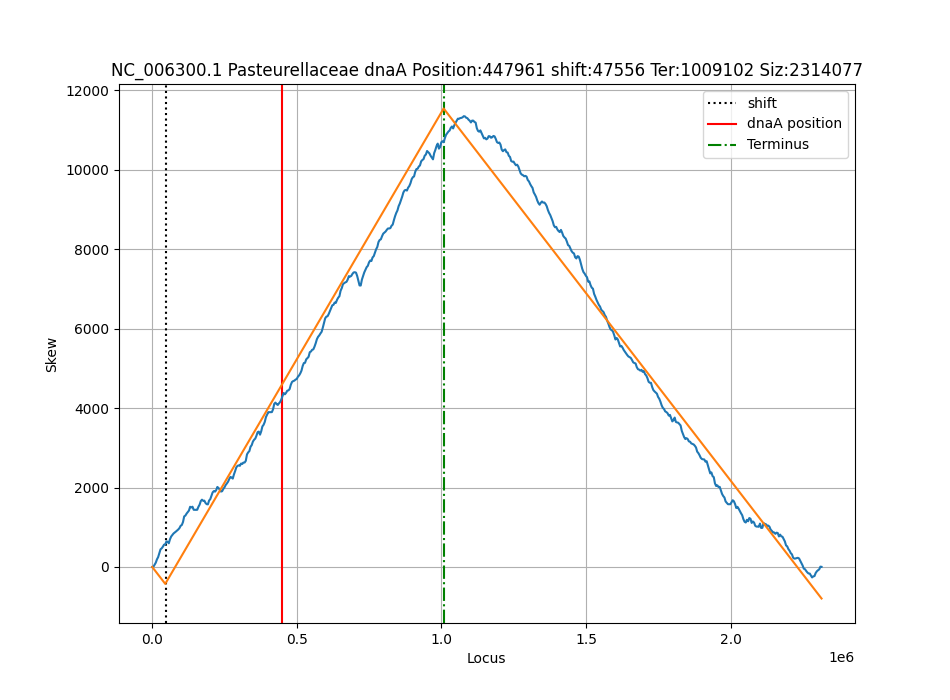
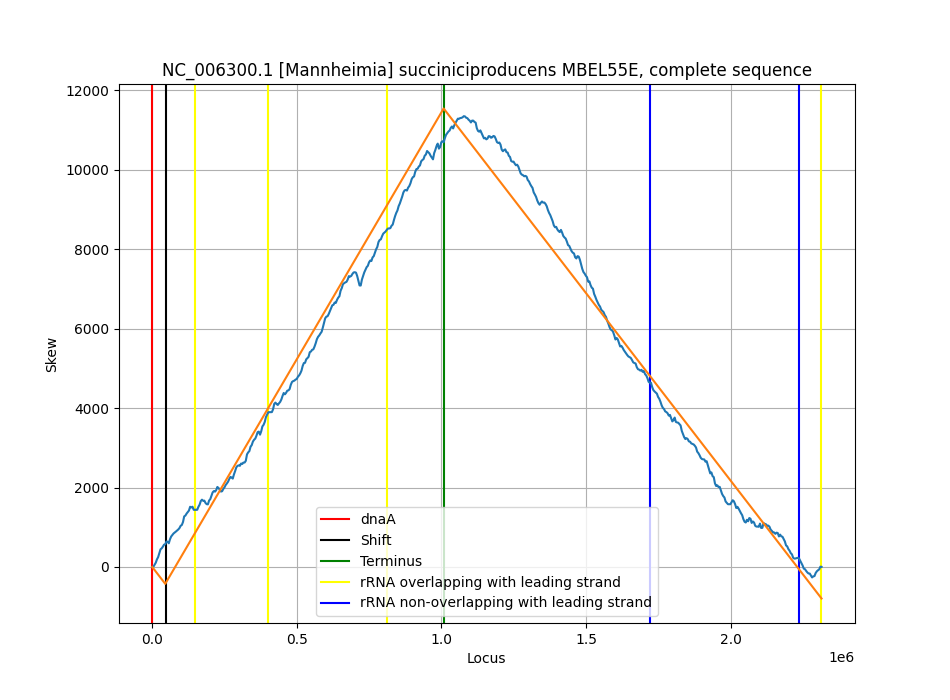
Updated plots.py using dummy outputfile

Changed region(s): [[0.1221, 0.09, 0.9158, 0.87], [0.3358, 0.72, 0.7021, 0.87]]

diff --git a/plots.py b/plots.py
@@ -1,3 +1,8 @@
+#TODO instructions for using this script
+#TODO help for script
+#TODO saving images to hard drive
+#TODO check the taxa for chromosomes where the rrna is not overlapping with leading strand
+
 # Import libraries
 import glob
 import pandas as pd
@@ -8,24 +13,106 @@ from rrna_leading_lagging import rrna_lead_lag as rRNA
 from combined_scripts import get_rRNA_intervals as rRNA_interval
 from random import shuffle
 import matplotlib.pyplot as plt
-
+import matplotlib.lines as mlines
 plt.rcParams['figure.figsize'] = [9.5, 7]
 
-csv_path = "C:/Ashwini/Applied_bioinformatics/FilteredDataFile.csv"
-df_for_taxa = pd.read_csv(csv_path)
-file_path = csv_path.rstrip("FilteredDataFile.csv")
-#print(file_path)
-op_file_path = file_path + "dataFile_with_rrna_lead_lag.csv"
-#print(op_file_path)
-op_df = pd.read_csv(op_file_path)
-#print(op_df.loc[:,:])
-gcfit_path = file_path + "gcfits"
+# Create test csv output files for chromosomes and rRNAs
+rRNAs= {
+    'rRNA':["rRNA1","rRNA2","rRNA3","rRNA4","rRNA5", "rRNA6"],
+    'accession_number' :["NC_006300.1","NC_006300.1","NC_006300.1","NC_006300.1","NC_006300.1","NC_006300.1"],
+    'locus_tag':["string","string","string","string","string", "string"],
+    'start':["149532", "401649", "813443", "1721185", "2233936", "2312119"],
+    'stop':["151076", "403192", "814986", "1722728", "2235480", "2313662"],
+    'strand':["1", "1", "1", "-1", "-1", "1"],
+    'co-oriented':[True, True, True, False, False, True],
+    'dist_to_ori':[1, 2, 3, 4, 5, 6],
+    'betn_dnaA_ori':[False, False, False, False, False, False]
+          }
+df_rRNA = pd.DataFrame(rRNAs)
+df_rRNA.to_csv("C:/Ashwini/Applied_bioinformatics/rRNA.csv")
+print(df_rRNA)
 
-# Get CSV files list from a folder
-#path = "C:/Ashwini/Applied_bioinformatics/gcfits"
-csv_files = glob.glob(gcfit_path + "/*.csv")
-print(csv_files[1])
+chromosomes = {
+    'accession_number':["NC_006300.1"],
+    'name':["NC_006300.1 [Mannheimia] succiniciproducens MBEL55E, complete sequence"],
+    'shift':["47556"],
+    'div':["0.416"],
+    'siz':["2314077"],
+    'dnaA':["1"],
+    'taxid':["221988"],
+    'realm1':["Bacteria"],
+    'realm2':["Proteobacteria"],
+    'realm3':["Gammaproteobacteria"],
+    'realm4':["Pasteurellales"],
+    'realm5':["Pasteurellaceae"],
+    'Ori':["47557"],
+    'Ter':["1009102"],
+    'lead1':["[47557, 1009102)"],
+    'lead2':["[1, 47557)"],
+    'lagg1':["[1009102, 2314077]"],
+    'lagg2':[""],
+    'dist_dnaa_ori':["1"],
+    'fraction':["5/6"],
+    'median':["100"]
+}
+df_chromo = pd.DataFrame(chromosomes)
+print(df_chromo)
+
+#Declaring lists used
+accession=[]
+rrna = []
+orient =[]
+start_regular = []
+stop_compliment = []
+unique_acc_rrna = []
 gcfits_accession = []
+new_csv_files = []
+temp_rrna =[]
+temp_num = []
+temp_non_rrna =[]
+temp_non_num = []
+
+for file in range(len(df_rRNA)):
+    accession.append(df_rRNA.loc[file,"accession_number"])
+    new_df = pd.DataFrame(accession, columns=["accession_number"])
+
+print(new_df)
+
+#Read data from rRNA file and check whether rRNA is co-oriented or not
+for file in range(len(df_rRNA)):
+    rrna.append(df_rRNA.loc[file,"rRNA"])    
+    orient.append(df_rRNA.loc[file,"co-oriented"])   
+    print(file)
+    if df_rRNA.loc[file,"co-oriented"] == False:     
+        if df_rRNA.loc[file, "strand"] == "1":
+            start_regular.append(df_rRNA.loc[file, "start"])
+        else:
+            start_regular.append(df_rRNA.loc[file, "stop"])
+    else:        
+        if df_rRNA.loc[file, "strand"] == "1":
+            start_regular.append(df_rRNA.loc[file, "start"])
+        else:     
+            start_regular.append(df_rRNA.loc[file, "stop"])      
+new_df["rRNA"] = rrna 
+new_df["co-oriented"] = orient
+new_df["rRNAPos"] = start_regular
+
+print(start_regular)
+#print(stop_compliment)
+print(new_df)
+
+#Fetching unique accession numbers from new_df dataframe 
+unique_acc_rrna = new_df["accession_number"].unique()
+
+#Creating path from csv_path
+csv_path = "C:/Ashwini/Applied_bioinformatics/FilteredDataFile.csv"
+file_path = csv_path.rstrip("FilteredDataFile.csv")
+gcfit_path = file_path + "gcfits\\"
+print(gcfit_path)
+
+# Get CSV files list from a gcfit folder
+csv_files = glob.glob(gcfit_path + "*.csv")
+print(csv_files[1])
 
 # Get only accession numbers from the file names
 for i in range(len(csv_files)):
@@ -34,154 +121,80 @@ for i in range(len(csv_files)):
     st = st.lstrip("\ ")
     st = st.rstrip("_fit.csv")
     gcfits_accession.append(st)
-
 print(gcfits_accession[1])
 
-
-chromoname = []
-
-for row in range(len(op_df)):
-    chromoname.append(op_df.loc[row,"name"])
-    
-print(chromoname)
-
-new_csv_files = []
+#Matching accession numbers of rrna output files with gcfit csv files
 for fil in csv_files:
     st = fil.replace(gcfit_path, "")
     st = st.lstrip("\ ")
     st = st.rstrip("_fit.csv")
-    if st in chromoname:
+    if st in unique_acc_rrna:
         new_csv_files.append(st)
-
 print(new_csv_files)
 
-new_gcfit = []
-"""for num in new_csv_files:
-    full_path = "C:/Ashwini/Applied_bioinformatics/gcfits\\" + num + "_fit.csv"
-    new_gcfit.append(full_path)
-
-fitted=[]
-for file_name in new_gcfit:
-    df = pd.read_csv(file_name)
-    fitted.append(df)
-
-print(fitted[0])"""
-#fitted = li[0]
-
-#print(op_df.iloc[:,2:9])
-str_num = []
-for i in range(100):
-    temp=str(i)
-    str_num.append(i)
-str_num = str(str_num)
-#print(str_num)
-
-
+#plotting graph for matched accession numbers
 for acc_num in new_csv_files:
-    full_path = "C:/Ashwini/Applied_bioinformatics/gcfits\\" + acc_num + "_fit.csv"
+    full_path = gcfit_path + acc_num + "_fit.csv"
     df = pd.read_csv(full_path)
-    #print(file)
-    #fitted.append(df)
-    us=op_df[op_df.name==acc_num]
-    taxa=df_for_taxa[df_for_taxa.name==acc_num]
+    us=new_df[new_df.accession_number==acc_num]
+    chromo = df_chromo[df_chromo.accession_number==acc_num]
+    #Creating new dataframe for the rrnas for the accession number
+    df_rrna_plot = new_df.loc[new_df["accession_number"] == acc_num,["rRNA", "co-oriented", "rRNAPos"]]
 
-    col=us.columns
-    col_names=col.values.tolist()
-    #print(col_names)
-    temp1 = [x for x in col_names if x in str_num]
-    #print(len(temp1))
-    n=temp1[-1]
-    n=int(n)
-    #print(temp2)
-
-    rrna_temp = us.iloc[:,2:n+3]
-    rrna_inter = rrna_temp.values.tolist()
-    regular_rrna =[]
-    comp_rrna=[]
-    
-    for rrna in rrna_inter:
-        rrna_element = rrna
-        print(rrna_element)
-        for el in rrna_element: 
-            y=str(el)
-            if y.find("+") != -1:
-                first_part = re.findall(r'(?<=\[)[0-9]+', str(el))
-                regular_rrna.append(first_part)
-                #print("regular")
-                #print(regular_rrna)
-            else:
-                last_part = re.findall(r'(?<=\:)[0-9]+', str(el))
-                comp_rrna.append(last_part)
-                #print("compliment")
-                #print(comp_rrna)
-    print(regular_rrna)
-    print(comp_rrna)
-
-    leshift=us["shift"].item()
+    # for marking rrna
+    for row in range(len(df_rrna_plot)):
+        if df_rrna_plot.loc[row, "co-oriented"] == True:
+            mark_rrna = df_rrna_plot.loc[row,"rRNAPos"]
+            #temp_rrna.append(mark_rrna)
+            #num_rrna = df_rrna_plot.loc[row,"rRNA"]
+            #temp_num.append(num_rrna)
+            plt.axvline(int(mark_rrna), ls='-', color='yellow')
+        else:
+            non_overlap_rrna = df_rrna_plot.loc[row,"rRNAPos"]
+            #temp_non_rrna.append(non_overlap_rrna)
+            #non_overlap_num = df_rrna_plot.loc[row,"rRNA"]
+            #temp_non_num.append(non_overlap_num)
+            plt.axvline(int(non_overlap_rrna), ls='-', color='blue')
+    print(temp_rrna)
+    # for marking shift
+    leshift=chromo["shift"].item()
     print(leshift)
-    if leshift > 0:
-        l_shift=plt.axvline(leshift, ls=':', color='black')
+    if int(leshift) > 0:
+        plt.axvline(int(leshift), ls='-', color='black')
     else:
-        l_shift=plt.axvline(df.pos.max() + leshift, ls=':', color='black')
-    dnaApos=us["dnaApos"].item()
+        plt.axvline(df.pos.max() + int(leshift), ls='-', color='black')
+    # for marking dnaA pos
+    dnaApos=chromo["dnaA"].item()
     print(dnaApos)
-    if dnaApos > 0:
-        d_dnaA=plt.axvline(dnaApos, ls='-', color='red')
+    if int(dnaApos) > 0:
+        plt.axvline(int(dnaApos), ls='-', color='red')
     else:
-        d_dnaA=plt.axvline(df.pos.max() + dnaApos, ls='-', color='red')
-    Terminus=us["Ter"].item()
+        plt.axvline(df.pos.max() + int(dnaApos), ls='-', color='red')
+    # for marking terminus
+    Terminus=chromo["Ter"].item()
     print(Terminus)
-    Terminus=plt.axvline(Terminus, ls='-.', color='green')
+    plt.axvline(int(Terminus), ls='-', color='green')
+    #Placing legend
+    dnaA = mlines.Line2D([], [], color='red', label='dnaA')
+    shift = mlines.Line2D([], [], color='black', label='Shift')
+    ter = mlines.Line2D([], [], color='green', label='Terminus')
+    pos_rrna = mlines.Line2D([], [], color='yellow', label='rRNA overlapping with leading strand')
+    pos_non_rrna = mlines.Line2D([], [], color='blue', label='rRNA non-overlapping with leading strand')
+    plt.legend(handles=[dnaA, shift, ter, pos_rrna, pos_non_rrna])
+
+    # labelling x and y axis
     plt.xlabel("Locus")
     plt.ylabel("Skew")
+    #plotting the graph
     plt.plot(df.pos, df.gc2skew)
     plt.plot(df.pos, df.predgc2skew)
     
-    plt.legend([l_shift, d_dnaA, Terminus],
-            ["shift", "dnaA position", "Terminus"])
-
-    plt.title(acc_num + " " + str(taxa["realm5"].item()) + " dnaA Position:" + str(us["dnaApos"].item()) + 
-          " shift:" + str(round(us["shift"].item(),3)) + " Ter:" + str(us["Ter"].item()) + " Siz:" + str(us["siz"].item()))
+    #fixing title
+    plt.title(str(chromo["name"].item()))
     plt.grid()
     plt.savefig("figures\\"+ str(acc_num) + ".png")
+    plt.savefig("D:\\figures\\"+ str(acc_num) + ".png")
     plt.clf()
-    #plt.savefig("NC_006300.1.pdf")
-    #plt.show()"""
-
-#fitted = pd.read_csv(r"C:\Ashwini\Applied_bioinformatics\gcfits\NC_006300.1_fit.csv")
-#rRNA_dict = rRNA_interval(csv_path)
-#print(m.loc[m["name"] == "NC_013791.2"])
-#chromoname="NC_004088.1" 
-#chromoname1="NC_006300.1"
-
-
-#df_rrna_ori_ter = pd.read_csv("C:/Ashwini/Applied_bioinformatics/dataFile_double_check_merged.csv")
-#rrna = df_rrna_ori_ter.loc[df_rrna_ori_ter["name"] == "NC_006300.1",["0", "1","2","3","4","5","6","7"]]
-#rrna = re.findall(r'(?<=\[)[0-9]+', str(df_rrna_ori_ter.loc[df_rrna_ori_ter["name" == "NC_002506.1"]]))
-#rrna_comp = re.findall(r'(?<=\:)[0-9]+', str(df_rrna_ori_ter.loc[df_rrna_ori_ter["name" == "NC_002506.1"]]))
-
-#interval = []
-#interval=rrna
-#print(interval)
-
-#print(rrna_comp)
-
-"""NC_006300.1
-#rrna_NC_006300 = [149532, 401649, 813443, 1722728, 2235480, 2312119]
-rrna_NC_006300_1 =plt.axvline(op_df.loc[op_df["name"] == "NC_006300.1",["0"]], ls='--', color='blue')
-rrna_NC_006300_2 =plt.axvline(op_df.loc[op_df["name"] == "NC_006300.1",["1"]], ls='--', color='blue')
-rrna_NC_006300_3 =plt.axvline(op_df.loc[op_df["name"] == "NC_006300.1",["2"]], ls='--', color='blue')
-rrna_NC_006300_4 =plt.axvline(op_df.loc[op_df["name"] == "NC_006300.1",["3"]], ls='--', color='blue')
-rrna_NC_006300_5 =plt.axvline(op_df.loc[op_df["name"] == "NC_006300.1",["4"]], ls='--', color='blue')
-rrna_NC_006300_6 =plt.axvline(op_df.loc[op_df["name"] == "NC_006300.1",["5"]], ls='--', color='blue')
-
-NC_002162.1
-rrna_NC_002162 = [145339, 343925]
-rrna_NC_002162_1 =plt.axvline(rrna_NC_002162[0], ls='--', color='blue')
-rrna_NC_002162_2 =plt.axvline(rrna_NC_002162[1], ls='--', color='blue')"""
-
-
-#plt.legend([l_shift, d_dnaA, Terminus, rrna_NC_006300_1, rrna_NC_006300_2, rrna_NC_006300_3, rrna_NC_006300_4, rrna_NC_006300_5, rrna_NC_006300_6],
-#            ["shift", "dnaA position", "Terminus","rRNA1","rRNA2","rRNA3","rRNA4","rRNA5","rRNA6"])
+    #plt.show()
 
 
